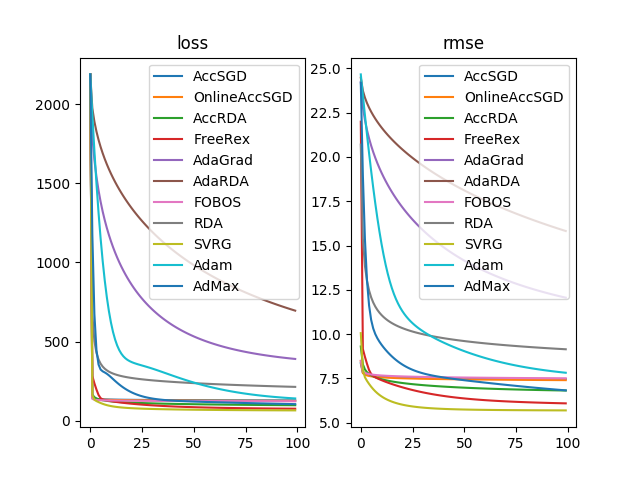
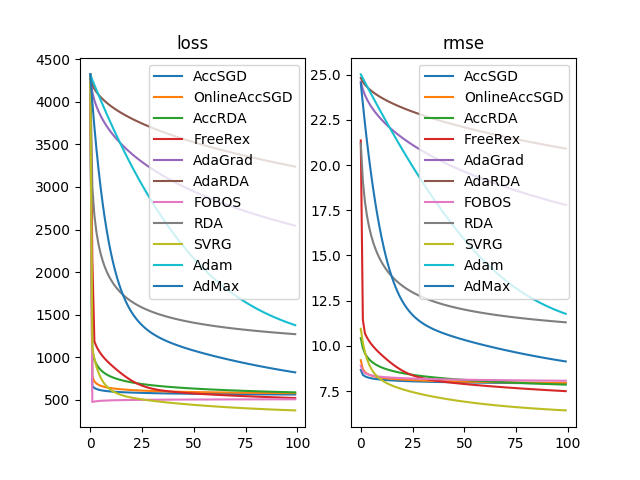
add pickle

diff --git a/examples/lr.py b/examples/lr.py
@@ -19,6 +19,8 @@ from oml.optimizers.adam import Adam, AdMax
 from oml.optimizers.nesterov import AccSGD
 from oml.datasouces.iterator import NumpyIterator
 
+from oml.serializers.serializer import BaseSerializer
+
 from matplotlib import pyplot as plt
 
 data = load_boston()
@@ -41,10 +43,12 @@ test_iter = NumpyIterator(test_data)
 
 results = {}
 
+serializer = BaseSerializer()
+
 
 def opt_test(optimizer, label):
     print(label)
-    optimizer.optimize(train_iter, test_iter, show_evaluation=True, epoch=1000)
+    optimizer.optimize(train_iter, test_iter, show_evaluation=True, epoch=100)
 
     results[label] = {
         'loss': optimizer.loss,

diff --git a/oml/serializers/serializer.py b/oml/serializers/serializer.py
@@ -1,0 +1,15 @@
+from __future__ import print_function
+from __future__ import unicode_literals
+from __future__ import absolute_import
+from __future__ import generators
+from __future__ import division
+
+from six.moves import cPickle
+
+
+def get_binary(obj):
+    return cPickle.dumps(obj)
+
+
+def get_obj(binary):
+    return cPickle.loads(binary)
